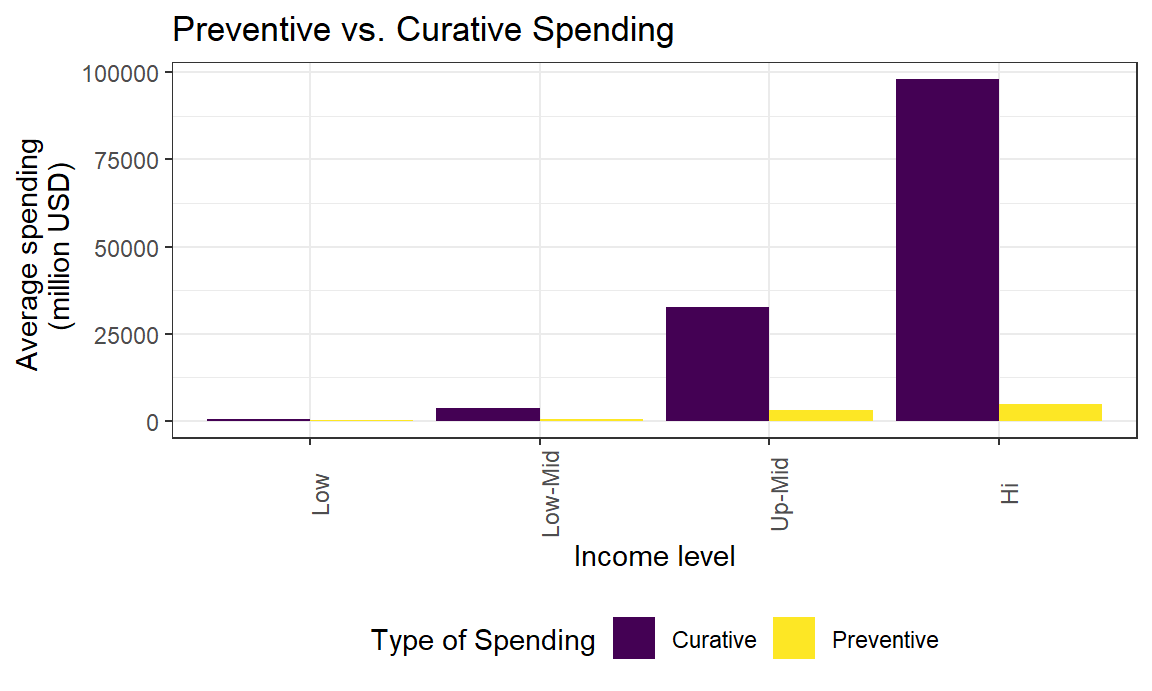
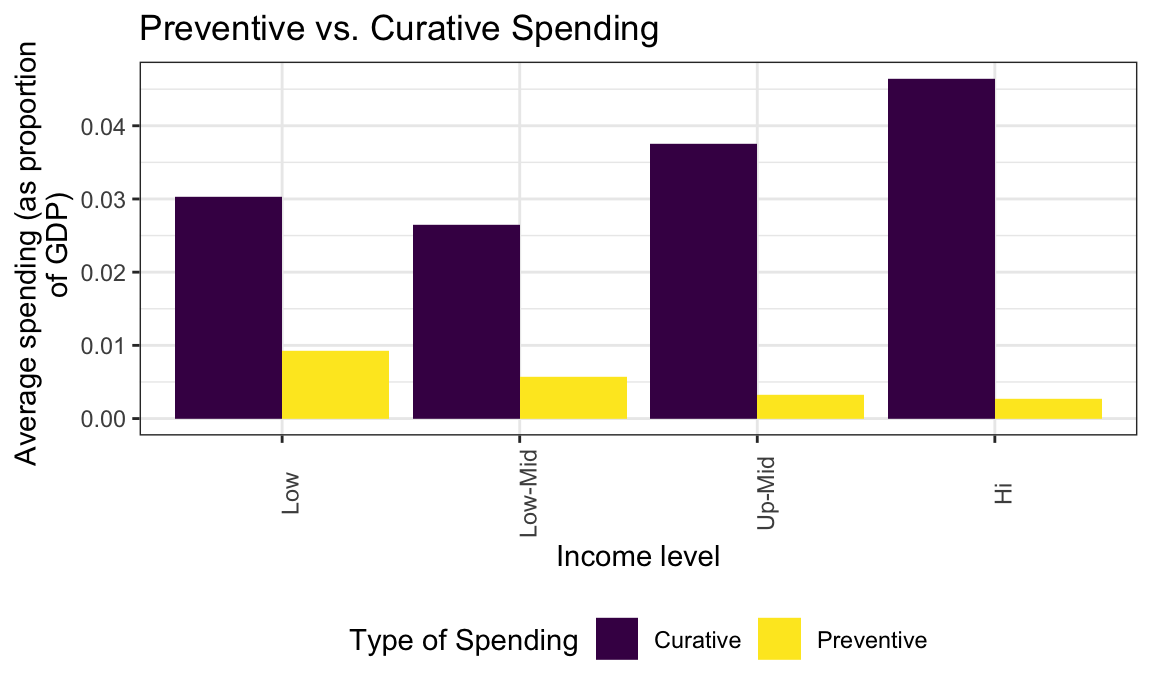
updated R code formatting; tidied data for PHC expenditure for each WHO region; created barplot showing PHC spending in million constant USD$

diff --git a/ghed_p8105_project.html b/ghed_p8105_project.html
@@ -13,8 +13,8 @@
 
 <title>P8105 Final Project</title>
 
-<script src="site_libs/header-attrs-2.10/header-attrs.js"></script>
-<script src="site_libs/jquery-1.11.3/jquery.min.js"></script>
+<script src="site_libs/header-attrs-2.11/header-attrs.js"></script>
+<script src="site_libs/jquery-3.6.0/jquery-3.6.0.min.js"></script>
 <meta name="viewport" content="width=device-width, initial-scale=1" />
 <link href="site_libs/bootstrap-3.3.5/css/simplex.min.css" rel="stylesheet" />
 <script src="site_libs/bootstrap-3.3.5/js/bootstrap.min.js"></script>
@@ -286,30 +286,6 @@ $(document).ready(function () {
 </div>
 
 
-<pre class="r"><code>library(tidyverse)</code></pre>
-<pre><code>## -- Attaching packages --------------------------------------- tidyverse 1.3.1 --</code></pre>
-<pre><code>## v ggplot2 3.3.5     v purrr   0.3.4
-## v tibble  3.1.4     v dplyr   1.0.7
-## v tidyr   1.1.3     v stringr 1.4.0
-## v readr   2.0.1     v forcats 0.5.1</code></pre>
-<pre><code>## -- Conflicts ------------------------------------------ tidyverse_conflicts() --
-## x dplyr::filter() masks stats::filter()
-## x dplyr::lag()    masks stats::lag()</code></pre>
-<pre class="r"><code>library(readxl)
-
-knitr::opts_chunk$set(
-  fig.width = 6,
-  fig.asp = .6,
-  out.width = &quot;90%&quot;
-)
-theme_set(theme_bw() + theme(legend.position = &quot;bottom&quot;))
-options(
-  ggplot2.continuous.colour = &quot;viridis&quot;,
-  ggplot2.continuous.fill = &quot;viridis&quot;
-)
-
-scale_coulour_discrete = scale_color_viridis_d
-scale_fill_discrete = scale_fill_viridis_d</code></pre>
 <div id="data-import" class="section level2">
 <h2>Data Import</h2>
 <pre class="r"><code>ghed_df &lt;- 
@@ -345,7 +321,7 @@ PHC_df %&gt;%
   ) + 
   theme(axis.text.x = element_text(angle = 90)) +
   theme(legend.position = &quot;none&quot;)</code></pre>
-<p><img src="ghed_p8105_project_files/figure-html/unnamed-chunk-3-1.png" width="90%" /></p>
+<p><img src="ghed_p8105_project_files/figure-html/unnamed-chunk-2-1.png" width="90%" /></p>
 <p>Primary health care spending by income level (as as proportion of per capita GDP)</p>
 <pre class="r"><code>PHC_df &lt;-
   ghed_df %&gt;% 
@@ -363,11 +339,11 @@ PHC_df %&gt;%
   labs(
     title = &quot;Primary Health Care Spending&quot;,
     x = &quot;Income level&quot;,
-    y = &quot;Average PHC spending (as proprtion of \n per capita GDP)&quot;
+    y = &quot;Average PHC spending (as proportion of \n per capita GDP)&quot;
   ) + 
   theme(axis.text.x = element_text(angle = 90)) +
   theme(legend.position = &quot;none&quot;)</code></pre>
-<p><img src="ghed_p8105_project_files/figure-html/unnamed-chunk-4-1.png" width="90%" /></p>
+<p><img src="ghed_p8105_project_files/figure-html/unnamed-chunk-3-1.png" width="90%" /></p>
 <p>Primary health care spending by income level (as a proportion of per capita health expenditure)</p>
 <pre class="r"><code>PHC_df &lt;-
   ghed_df %&gt;% 
@@ -389,7 +365,7 @@ PHC_df %&gt;%
   ) + 
   theme(axis.text.x = element_text(angle = 90)) +
   theme(legend.position = &quot;none&quot;)</code></pre>
-<p><img src="ghed_p8105_project_files/figure-html/unnamed-chunk-5-1.png" width="90%" /></p>
+<p><img src="ghed_p8105_project_files/figure-html/unnamed-chunk-4-1.png" width="90%" /></p>
 <p><strong>Preventive vs. Curative Spending</strong></p>
 <p>Primary health care spending by income level (USD per capita)</p>
 <pre class="r"><code>prev_df &lt;-
@@ -429,7 +405,7 @@ prev_cur_df &lt;-
     y = &quot;Average spending \n (million USD)&quot;
   ) + 
   theme(axis.text.x = element_text(angle = 90))</code></pre>
-<p><img src="ghed_p8105_project_files/figure-html/unnamed-chunk-6-1.png" width="90%" /></p>
+<p><img src="ghed_p8105_project_files/figure-html/unnamed-chunk-5-1.png" width="90%" /></p>
 <p>Primary health care spending by income level (as as proportion of GDP)</p>
 <pre class="r"><code>prev_df &lt;-
   ghed_df %&gt;% 
@@ -465,11 +441,11 @@ prev_cur_df &lt;-
   labs(
     title = &quot;Preventive vs. Curative Spending&quot;,
     x = &quot;Income level&quot;,
-    y = &quot;Average spending (as proportion of GDP)&quot;
+    y = &quot;Average spending (as proportion \n of GDP)&quot;
   ) + 
   theme(axis.text.x = element_text(angle = 90))</code></pre>
-<p><img src="ghed_p8105_project_files/figure-html/unnamed-chunk-7-1.png" width="90%" /></p>
-<p>Primary health care spending by income level (as as proportion of health expenditure)</p>
+<p><img src="ghed_p8105_project_files/figure-html/unnamed-chunk-6-1.png" width="90%" /></p>
+<p>Primary health care spending by income level (as proportion of health expenditure)</p>
 <pre class="r"><code>prev_df &lt;-
   ghed_df %&gt;% 
     janitor::clean_names() %&gt;% 
@@ -507,10 +483,49 @@ prev_cur_df &lt;-
     y = &quot;Average spending (as proportion \n of total health expenditure)&quot;
   ) + 
   theme(axis.text.x = element_text(angle = 90))</code></pre>
-<p><img src="ghed_p8105_project_files/figure-html/unnamed-chunk-8-1.png" width="90%" /></p>
+<p><img src="ghed_p8105_project_files/figure-html/unnamed-chunk-7-1.png" width="90%" /></p>
+<p><strong>Infectious vs. Non-communicable Diseases</strong></p>
 </div>
-<div id="other-sections" class="section level3">
-<h3>Other sections</h3>
+<div id="ragyies-section" class="section level3">
+<h3>Ragyie’s section</h3>
+<p><strong>Indicators for analysis</strong></p>
+<ul>
+<li>Curative care, in million constant (2019) US$ —&gt; hc1_usd2019</li>
+<li>Preventive care, in million constant (2018) US$ —&gt; hc6_usd2019</li>
+<li>Infectious and Parasitic Diseases, in million constant (2018) US$ —&gt; dis1_usd2019</li>
+<li>Noncommunicable Diseases (NCDs), in million constant (2018) US$ —&gt; dis4_usd2019</li>
+<li>Primary Health Care (PHC) Expenditure per Capita in US$ —&gt; phc_usd_pc</li>
+<li>GDP - gdp_pc_usd<br />
+</li>
+<li>CHE - che_pc_usd</li>
+<li>che_usd_2019</li>
+<li>gdp_usd_2019</li>
+</ul>
+<p><strong>Expenditure category analysis: WHO regions</strong></p>
+<p>Will compare and plot the average in 2019 of spending in categories of interest for each WHO region</p>
+<p><strong>Primary health care</strong>:</p>
+<p>Average primary health care expenditure for each WHO region in million constant USD$</p>
+<pre class="r"><code>phc_ghed = 
+  ghed_df %&gt;% 
+  janitor::clean_names() %&gt;% 
+  filter(year == 2019) %&gt;% 
+  drop_na(phc_usd_pc) %&gt;% 
+  group_by(region_who) %&gt;% 
+  summarize(
+    n_countries = n(),
+    avg_primary = mean(phc_usd_pc)
+  )</code></pre>
+<p>Barplot: Primary health care expenditure in million constant USD$</p>
+<pre class="r"><code>phc_ghed %&gt;%   
+  ggplot(aes(x = reorder(region_who, avg_primary), y = avg_primary, fill = region_who)) + 
+  geom_bar(stat = &quot;Identity&quot;) + 
+  labs(
+    title = &quot;Primary health care spending&quot;, 
+    x = &quot;WHO region&quot;, 
+    y = &quot;Average PHC spending in million constant USD$&quot;
+  ) + 
+  theme(legend.position = &quot;none&quot;)</code></pre>
+<p><img src="ghed_p8105_project_files/figure-html/avg_phc_plot-1.png" width="90%" /></p>
 </div>
 </div>
 
